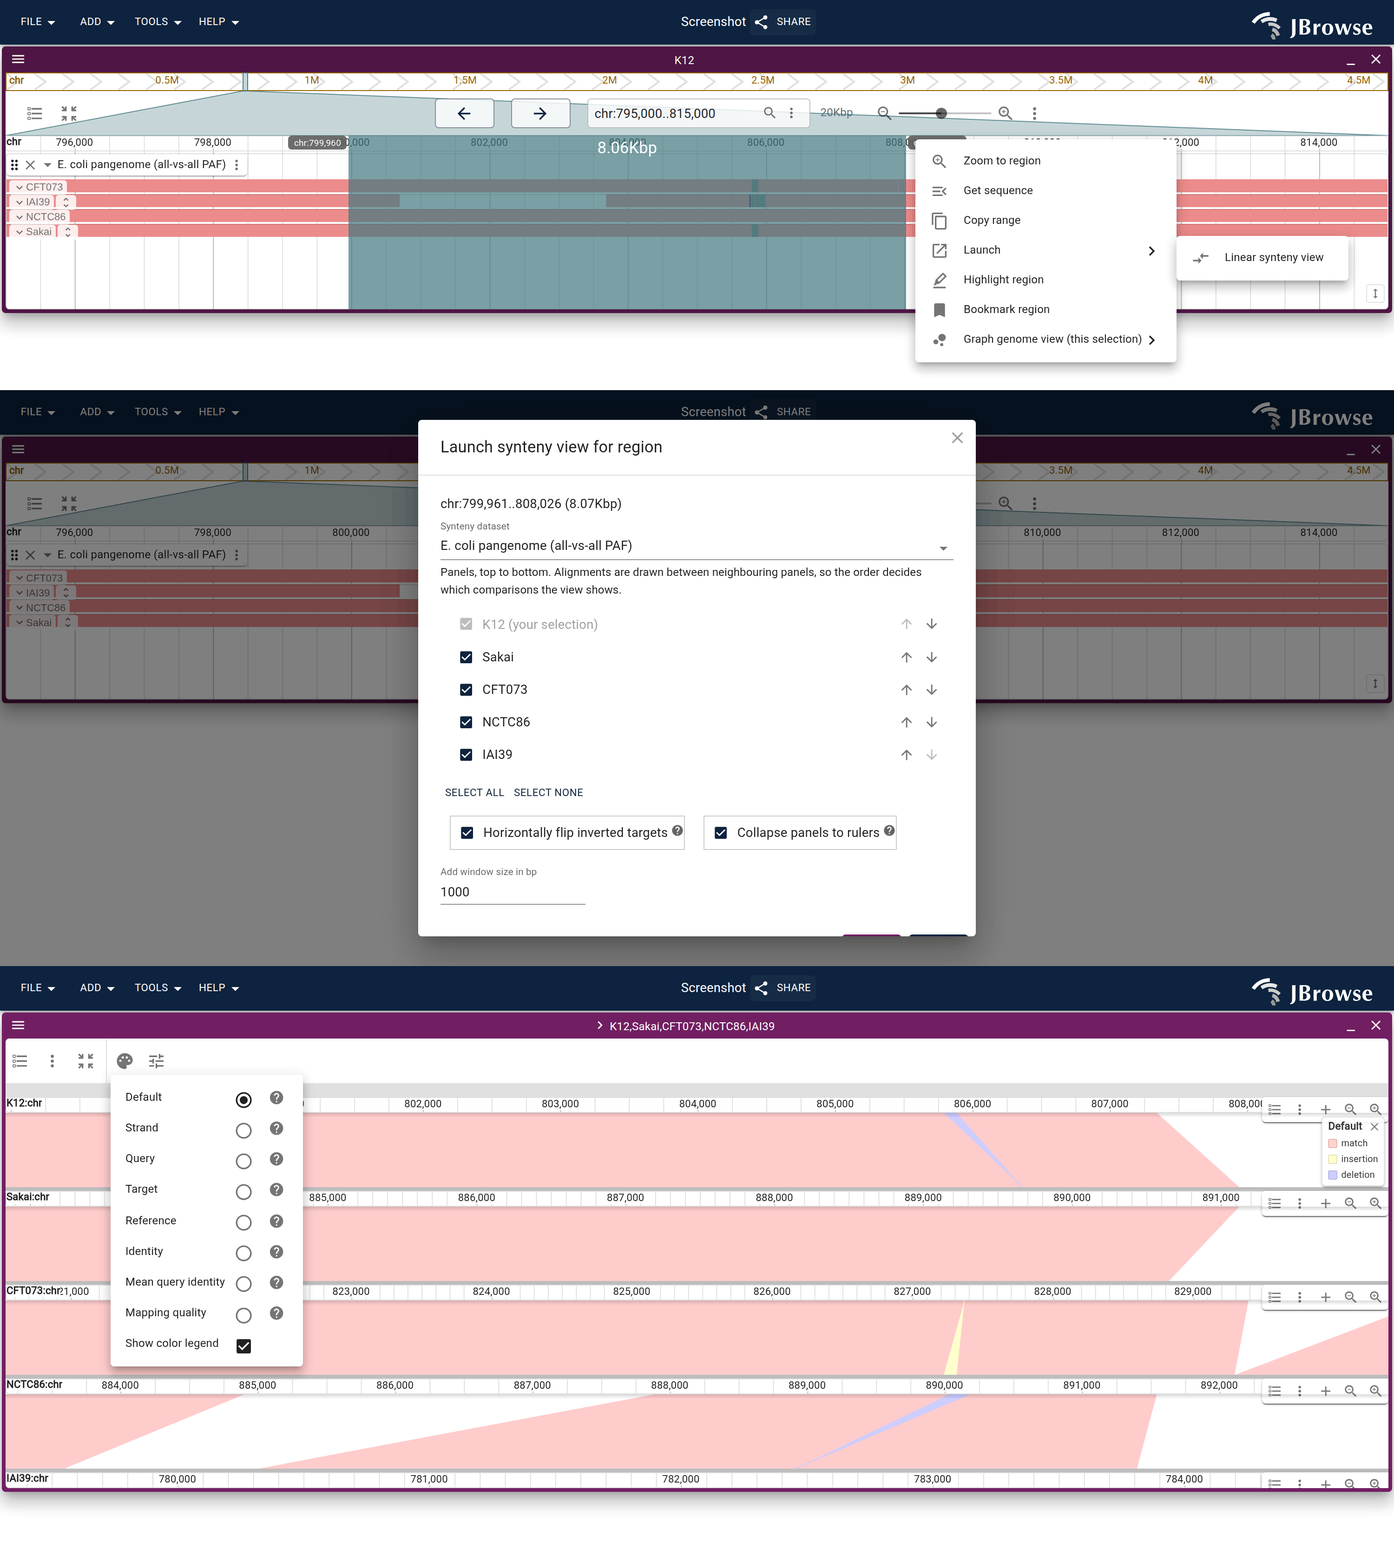
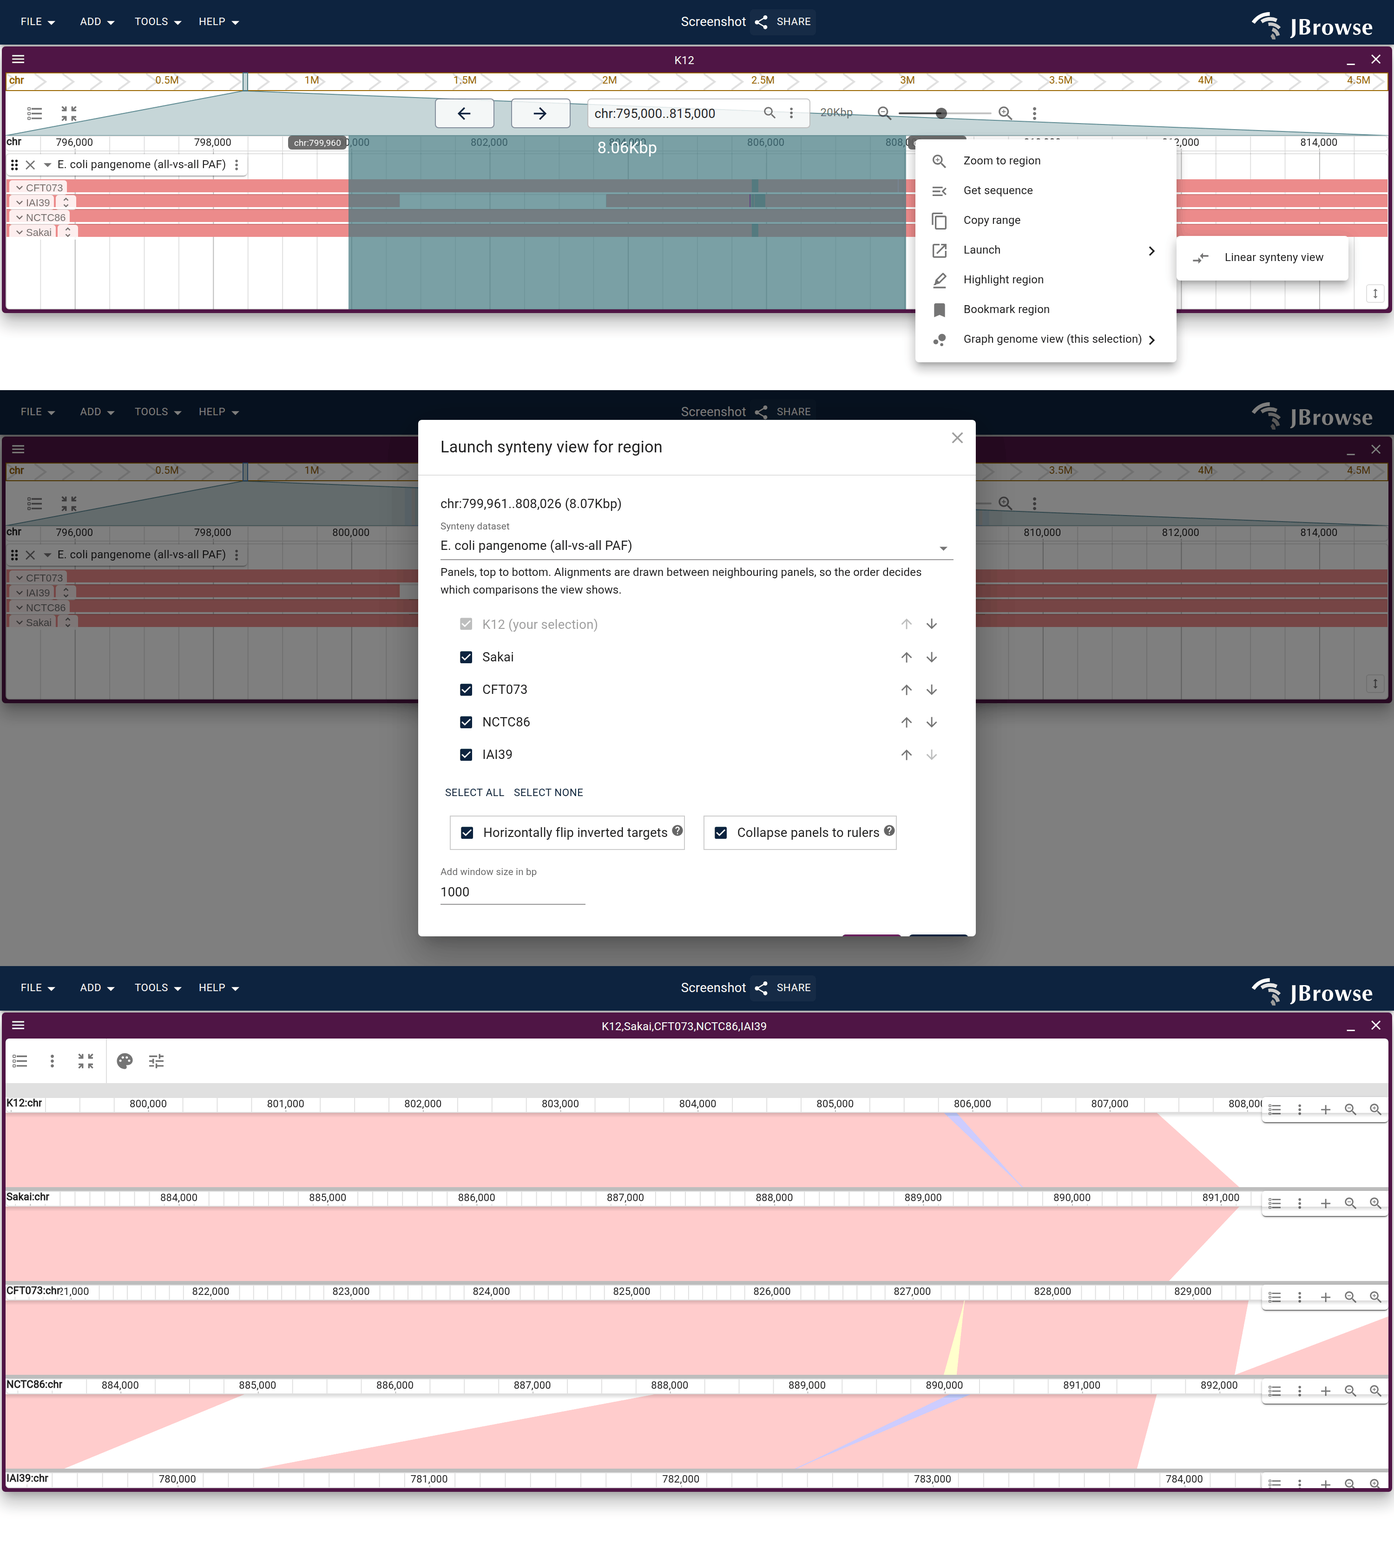
docs(website): clear three screenshot-review items
multiway_synteny/ecoli_launch_from_selection: the result frame no longer opens
the palette menu or the color legend (review). The menu is a full-height overlay
across the left half of the frame and the legend a floating box in the corner,
and between them they covered more of the five-row stack than naming the CIGAR
ops was worth. The wedges are still drawn; the prose above the figure names Show
color legend as the way to label them, and the caption no longer says the
legend is in the picture.

dog10k-slc28a3-copy-number: retired, per review, now that the CYP1A2 cohort
figure carries the same estimate over a locus where the collection lane holds a
distribution rather than one band. The section states the depth-ratio method and
points there instead of asserting the per-breed numbers the figure used to show.
dog10k_slc28a3_breed_cn / _cohort_cn stay in the config and the build script
stays under Reproduce it end to end.

ld/lct_lactase: off the gallery, which is where review found it duplicating
ld/lct_pooled_vs_panel. The card moves to that figure rather than disappearing,
since the gallery keeps one card per capability and the r2 triangle would
otherwise have none. lct_lactase stays in ld_human.md as the page's first LD
figure, where the ClinVar rs4988235 lane sets the block up.

Changed region(s): [[0.0, 0.6515, 1.0, 0.9617]]

diff --git a/website/src/lib/galleryLinks.generated.ts b/website/src/lib/galleryLinks.generated.ts
@@ -204,7 +204,6 @@ export const specSessionUrls: Record<string, string> = {
   "dog10k-fgf4-retrogene-synteny": "?config=test_data/dog10k/config.json&session=spec-%7B%22views%22%3A%5B%7B%22type%22%3A%22LinearSyntenyView%22%2C%22drawCurves%22%3Afalse%2C%22cigarMode%22%3A%22matches%22%2C%22alpha%22%3A0.45%2C%22tracks%22%3A%5B%5B%22dog10k_fgf4_retro_cfa18%22%5D%2C%5B%22dog10k_fgf4_retro_cfa12%22%5D%5D%2C%22views%22%3A%5B%7B%22assembly%22%3A%22FGF4retro-CFA18%22%2C%22loc%22%3A%22FGF4retro-CFA18%3A1-2625%22%2C%22tracks%22%3A%5B%7B%22trackId%22%3A%22dog10k_fgf4_retro_cfa18_genes%22%2C%22type%22%3A%22LinearBasicDisplay%22%2C%22height%22%3A55%7D%5D%7D%2C%7B%22assembly%22%3A%22UU_Cfam_GSD_1.0%22%2C%22loc%22%3A%22chr18%3A48%2C869%2C100-48%2C872%2C900%22%2C%22tracks%22%3A%5B%7B%22trackId%22%3A%22canFam4_ncbi_refseq%22%2C%22type%22%3A%22LinearBasicDisplay%22%2C%22height%22%3A60%7D%2C%7B%22trackId%22%3A%22dog10k_fgf4_svs%22%2C%22type%22%3A%22LinearMultiSampleVariantDisplay%22%2C%22height%22%3A690%2C%22colorBy%22%3A%22group%22%7D%5D%7D%2C%7B%22assembly%22%3A%22FGF4retro-CFA12%22%2C%22loc%22%3A%22FGF4retro-CFA12%3A2-2639%22%2C%22tracks%22%3A%5B%7B%22trackId%22%3A%22dog10k_fgf4_retro_cfa12_genes%22%2C%22type%22%3A%22LinearBasicDisplay%22%2C%22height%22%3A55%7D%5D%7D%5D%7D%5D%7D&sessionName=Screenshot",
   "dog10k-cyp1a2-nonsense": "?config=test_data/dog10k/config.json&session=spec-%7B%22views%22%3A%5B%7B%22type%22%3A%22LinearGenomeView%22%2C%22assembly%22%3A%22UU_Cfam_GSD_1.0%22%2C%22loc%22%3A%22chr30%3A38%2C261%2C590-38%2C261%2C690%22%2C%22tracks%22%3A%5B%7B%22trackId%22%3A%22UU_Cfam_GSD_1.0-ReferenceSequenceTrack%22%2C%22type%22%3A%22LinearReferenceSequenceDisplay%22%2C%22showForward%22%3Atrue%2C%22showReverse%22%3Afalse%2C%22showTranslation%22%3Atrue%2C%22height%22%3A80%7D%2C%7B%22trackId%22%3A%22canFam4_ncbi_refseq%22%2C%22type%22%3A%22LinearBasicDisplay%22%2C%22height%22%3A60%7D%2C%7B%22trackId%22%3A%22dog10k_cyp1a2_snvs_positional%22%2C%22type%22%3A%22LinearVariantDisplay%22%2C%22height%22%3A60%2C%22jexlFilters%22%3A%5B%22get(feature%2C'start')%20%3D%3D%2038261634%22%5D%7D%2C%7B%22trackId%22%3A%22dog10k_cyp1a2_snvs%22%2C%22type%22%3A%22LinearMultiSampleVariantDisplay%22%2C%22height%22%3A500%2C%22layout%22%3A%5B%7B%22name%22%3A%22GHND000001%22%2C%22label%22%3A%22German%20Hound%201%22%2C%22color%22%3A%22%230072B2%22%7D%2C%7B%22name%22%3A%22GHND000002%22%2C%22label%22%3A%22German%20Hound%202%22%2C%22color%22%3A%22%230072B2%22%7D%2C%7B%22name%22%3A%22GHND000003%22%2C%22label%22%3A%22German%20Hound%203%22%2C%22color%22%3A%22%230072B2%22%7D%2C%7B%22name%22%3A%22GHND000004%22%2C%22label%22%3A%22German%20Hound%204%22%2C%22color%22%3A%22%230072B2%22%7D%2C%7B%22name%22%3A%22GHND000005%22%2C%22label%22%3A%22German%20Hound%205%22%2C%22color%22%3A%22%230072B2%22%7D%2C%7B%22name%22%3A%22GHND000006%22%2C%22label%22%3A%22German%20Hound%206%22%2C%22color%22%3A%22%230072B2%22%7D%2C%7B%22name%22%3A%22BHSP000001%22%2C%22label%22%3A%22Bohemian%20Shepherd%201%22%2C%22color%22%3A%22%230072B2%22%7D%2C%7B%22name%22%3A%22BHSP000002%22%2C%22label%22%3A%22Bohemian%20Shepherd%202%22%2C%22color%22%3A%22%230072B2%22%7D%2C%7B%22name%22%3A%22BHSP000003%22%2C%22label%22%3A%22Bohemian%20Shepherd%203%22%2C%22color%22%3A%22%230072B2%22%7D%2C%7B%22name%22%3A%22BHSP000004%22%2C%22label%22%3A%22Bohemian%20Shepherd%204%22%2C%22color%22%3A%22%230072B2%22%7D%2C%7B%22name%22%3A%22BHSP000005%22%2C%22label%22%3A%22Bohemian%20Shepherd%205%22%2C%22color%22%3A%22%230072B2%22%7D%2C%7B%22name%22%3A%22BHSP000006%22%2C%22label%22%3A%22Bohemian%20Shepherd%206%22%2C%22color%22%3A%22%230072B2%22%7D%2C%7B%22name%22%3A%22SSHP000001%22%2C%22label%22%3A%22Shetland%20Sheepdog%201%22%2C%22color%22%3A%22%230072B2%22%7D%2C%7B%22name%22%3A%22SSHP000002%22%2C%22label%22%3A%22Shetland%20Sheepdog%202%22%2C%22color%22%3A%22%230072B2%22%7D%2C%7B%22name%22%3A%22SSHP000003%22%2C%22label%22%3A%22Shetland%20Sheepdog%203%22%2C%22color%22%3A%22%230072B2%22%7D%2C%7B%22name%22%3A%22SSHP000004%22%2C%22label%22%3A%22Shetland%20Sheepdog%204%22%2C%22color%22%3A%22%230072B2%22%7D%2C%7B%22name%22%3A%22BRTR000001%22%2C%22label%22%3A%22Black%20Russian%20Terrier%201%22%2C%22color%22%3A%22%230072B2%22%7D%2C%7B%22name%22%3A%22BRTR000002%22%2C%22label%22%3A%22Black%20Russian%20Terrier%202%22%2C%22color%22%3A%22%230072B2%22%7D%2C%7B%22name%22%3A%22BRTR000003%22%2C%22label%22%3A%22Black%20Russian%20Terrier%203%22%2C%22color%22%3A%22%230072B2%22%7D%2C%7B%22name%22%3A%22BRTR000004%22%2C%22label%22%3A%22Black%20Russian%20Terrier%204%22%2C%22color%22%3A%22%230072B2%22%7D%2C%7B%22name%22%3A%22BRTR000005%22%2C%22label%22%3A%22Black%20Russian%20Terrier%205%22%2C%22color%22%3A%22%230072B2%22%7D%2C%7B%22name%22%3A%22KEES000002%22%2C%22label%22%3A%22Keeshond%201%22%2C%22color%22%3A%22%230072B2%22%7D%2C%7B%22name%22%3A%22KEES000003%22%2C%22label%22%3A%22Keeshond%202%22%2C%22color%22%3A%22%230072B2%22%7D%2C%7B%22name%22%3A%22KEES000004%22%2C%22label%22%3A%22Keeshond%203%22%2C%22color%22%3A%22%230072B2%22%7D%2C%7B%22name%22%3A%22KEES000005%22%2C%22label%22%3A%22Keeshond%204%22%2C%22color%22%3A%22%230072B2%22%7D%2C%7B%22name%22%3A%22KEES000006%22%2C%22label%22%3A%22Keeshond%205%22%2C%22color%22%3A%22%230072B2%22%7D%2C%7B%22name%22%3A%22LABR000001%22%2C%22label%22%3A%22Labrador%20Retriever%201%22%2C%22color%22%3A%22%23999999%22%7D%2C%7B%22name%22%3A%22LABR000002%22%2C%22label%22%3A%22Labrador%20Retriever%202%22%2C%22color%22%3A%22%23999999%22%7D%2C%7B%22name%22%3A%22LABR000003%22%2C%22label%22%3A%22Labrador%20Retriever%203%22%2C%22color%22%3A%22%23999999%22%7D%2C%7B%22name%22%3A%22LABR000004%22%2C%22label%22%3A%22Labrador%20Retriever%204%22%2C%22color%22%3A%22%23999999%22%7D%2C%7B%22name%22%3A%22LABR000005%22%2C%22label%22%3A%22Labrador%20Retriever%205%22%2C%22color%22%3A%22%23999999%22%7D%2C%7B%22name%22%3A%22BOXR000001%22%2C%22label%22%3A%22Boxer%201%22%2C%22color%22%3A%22%23999999%22%7D%2C%7B%22name%22%3A%22BOXR000002%22%2C%22label%22%3A%22Boxer%202%22%2C%22color%22%3A%22%23999999%22%7D%2C%7B%22name%22%3A%22BOXR000003%22%2C%22label%22%3A%22Boxer%203%22%2C%22color%22%3A%22%23999999%22%7D%2C%7B%22name%22%3A%22BOXR000004%22%2C%22label%22%3A%22Boxer%204%22%2C%22color%22%3A%22%23999999%22%7D%2C%7B%22name%22%3A%22CLUPGR000001%22%2C%22label%22%3A%22Wolf%201%22%2C%22color%22%3A%22%23E69F00%22%7D%2C%7B%22name%22%3A%22CLUPGR000002%22%2C%22label%22%3A%22Wolf%202%22%2C%22color%22%3A%22%23E69F00%22%7D%2C%7B%22name%22%3A%22CLUPGR000003%22%2C%22label%22%3A%22Wolf%203%22%2C%22color%22%3A%22%23E69F00%22%7D%2C%7B%22name%22%3A%22CLUPGR000004%22%2C%22label%22%3A%22Wolf%204%22%2C%22color%22%3A%22%23E69F00%22%7D%5D%2C%22jexlFilters%22%3A%5B%22jexl%3Aget(feature%2C'start')%20%3D%3D%2038261634%22%5D%7D%5D%7D%5D%7D&sessionName=Screenshot",
   "dog10k-cyp1a2-cohort-copy-number": "?config=test_data/dog10k/config.json&session=spec-%7B%22views%22%3A%5B%7B%22type%22%3A%22LinearGenomeView%22%2C%22assembly%22%3A%22UU_Cfam_GSD_1.0%22%2C%22loc%22%3A%22chr30%3A38%2C210%2C000-38%2C395%2C000%22%2C%22tracks%22%3A%5B%7B%22trackId%22%3A%22canFam4_ncbi_refseq%22%2C%22type%22%3A%22LinearBasicDisplay%22%2C%22height%22%3A90%7D%2C%7B%22trackId%22%3A%22dog10k_cyp1a2_cpg%22%2C%22type%22%3A%22LinearBasicDisplay%22%2C%22height%22%3A62%7D%2C%7B%22trackId%22%3A%22dog10k_cyp1a2_breed_cn%22%2C%22type%22%3A%22LinearMultiRowFeatureDisplay%22%2C%22height%22%3A380%7D%2C%7B%22trackId%22%3A%22dog10k_cyp1a2_cohort_cn%22%2C%22type%22%3A%22LinearMultiRowFeatureDisplay%22%2C%22height%22%3A300%2C%22runClustering%22%3Atrue%7D%5D%7D%5D%7D&sessionName=Screenshot",
-  "dog10k-slc28a3-copy-number": "?config=test_data/dog10k/config.json&session=spec-%7B%22views%22%3A%5B%7B%22type%22%3A%22LinearGenomeView%22%2C%22assembly%22%3A%22UU_Cfam_GSD_1.0%22%2C%22loc%22%3A%22chr1%3A75%2C540%2C000-75%2C760%2C000%22%2C%22tracks%22%3A%5B%7B%22trackId%22%3A%22canFam4_ncbi_refseq%22%2C%22type%22%3A%22LinearBasicDisplay%22%2C%22height%22%3A90%7D%2C%7B%22trackId%22%3A%22dog10k_slc28a3_breed_cn%22%2C%22type%22%3A%22LinearMultiRowFeatureDisplay%22%2C%22height%22%3A300%7D%2C%7B%22trackId%22%3A%22dog10k_slc28a3_cohort_cn%22%2C%22type%22%3A%22LinearMultiRowFeatureDisplay%22%2C%22height%22%3A300%2C%22sortRowsBy%22%3A%7B%22refName%22%3A%22chr1%22%2C%22pos%22%3A75660000%7D%7D%5D%7D%5D%7D&sessionName=Screenshot",
   "dog10k-igf1-haplotype": "?config=test_data/dog10k/config.json&session=spec-%7B%22views%22%3A%5B%7B%22type%22%3A%22LinearGenomeView%22%2C%22assembly%22%3A%22UU_Cfam_GSD_1.0%22%2C%22loc%22%3A%22chr15%3A41%2C350%2C000-41%2C750%2C000%22%2C%22tracks%22%3A%5B%7B%22trackId%22%3A%22canFam4_ncbi_refseq%22%2C%22type%22%3A%22LinearBasicDisplay%22%2C%22height%22%3A80%7D%2C%7B%22trackId%22%3A%22dog10k_igf1_haplotype%22%2C%22type%22%3A%22LinearMultiSampleVariantMatrixDisplay%22%2C%22height%22%3A760%2C%22lineZoneHeight%22%3A34%2C%22runClustering%22%3Atrue%2C%22colorBy%22%3A%22size%22%7D%5D%7D%5D%7D&sessionName=Screenshot",
   "gallery/copynumber_clustered": "?config=test_data/config_demo.json&session=spec-%7B%22views%22%3A%5B%7B%22type%22%3A%22LinearGenomeView%22%2C%22assembly%22%3A%22hg38%22%2C%22loc%22%3A%22chr3%3A162%2C275%2C163-163%2C360%2C944%22%2C%22tracks%22%3A%5B%7B%22trackId%22%3A%22pur_copynumber_1000g%22%2C%22type%22%3A%22MultiLinearWiggleDisplay%22%2C%22height%22%3A420%2C%22defaultRendering%22%3A%22multirowdensity%22%2C%22autoscale%22%3A%22local%22%2C%22showTree%22%3Afalse%7D%5D%7D%5D%7D&sessionName=Screenshot",
   "gallery/sarscov2_polyprotein": "?config=test_data%2Fsars-cov2%2Fconfig.json&session=spec-{\"views\":[{\"assembly\":\"Wuhan-Hu-1\",\"loc\":\"NC_045512.2:266-21555\",\"type\":\"LinearGenomeView\",\"colorByCDS\":true,\"tracks\":[{\"trackId\":\"ncbi_genes_with_mature_peptides\",\"displaySnapshot\":{\"type\":\"LinearBasicDisplay\",\"subfeatureLabels\":\"below\"}}]}]}",

diff --git a/website/scripts/specs/dog10k.ts b/website/scripts/specs/dog10k.ts
@@ -1179,89 +1179,6 @@ export const dog10kSpecs: ScreenshotSpec[] = [
     viewportHeight: 1140,
   },
 
-  // The same estimate at SLC28A3, which is Fig 11 of the same paper: a
-  // duplication over a gemcitabine transporter that every Grand Basset Griffon
-  // Vendeen carries and the basset hounds segregate for. Two lanes, as above.
-  //
-  // Where CYP1A2 is carried by most of the collection, this one is rare -- under
-  // 5% of canids -- so the collection lane below is a grey field with a red band
-  // at the top of the sort rather than a ramp, and the panel is what carries the
-  // finding. That contrast is the reason both loci are drawn.
-  {
-    mode: 'url',
-    name: 'dog10k-slc28a3-copy-number',
-    url: lgvSession(DOG_CONFIG, {
-      assembly: 'UU_Cfam_GSD_1.0',
-      loc: 'chr1:75,540,000-75,760,000',
-      tracks: [
-        {
-          trackId: 'canFam4_ncbi_refseq',
-          type: 'LinearBasicDisplay',
-          height: 90,
-        },
-        {
-          // 14 rows over 300px: every animal of the three breeds, each row thick
-          // enough for its own label and for the element's edges in that animal.
-          trackId: 'dog10k_slc28a3_breed_cn',
-          type: 'LinearMultiRowFeatureDisplay',
-          height: 300,
-        },
-        {
-          trackId: 'dog10k_slc28a3_cohort_cn',
-          type: 'LinearMultiRowFeatureDisplay',
-          height: 300,
-          // Inside the duplication and clear of both its edges, so the sort
-          // separates carriers from the rest on one window rather than on where
-          // an animal's element happens to start.
-          sortRowsBy: { refName: 'chr1', pos: 75_660_000 },
-        },
-      ],
-    }),
-    readyText: 'chr1',
-    readySelector: '[data-testid="multirow-row-labels"]',
-    readyTimeout: 120000,
-    settleMs: 8000,
-    // gene track, two 300px lanes, their headers, and the copy-number key
-    viewportHeight: 965,
-    // The white stripe, named. It is one 5 kb window, chr1:75,575,000-75,580,000,
-    // and it is unpainted on purpose: build_dog10k_slc28a3_cn.sh drops any window
-    // whose median across the whole collection sits below two copies, because a
-    // window every canid reads low is measuring the reference rather than any
-    // dog (the same rule suppresses four blue stripes that would otherwise run
-    // down the collection lane at the weight of the duplication). This one is
-    // where the duplication's left breakpoint falls (ELEMENT_START 75,578,115),
-    // which is why it reads low. Review has now read the gap as a rendering
-    // glitch twice, once here and once on the CYP1A2 figure, and a caption did
-    // not stop it — so the frame says it.
-    annotations: [
-      {
-        type: 'text',
-        anchor: {
-          track: 'canFam4_ncbi_refseq',
-          locus: 'chr1:75,553,000',
-          fracY: 0.45,
-        },
-        text: 'no call: every canid reads low here',
-        fontSize: 17,
-        maxWidth: 300,
-      },
-      {
-        type: 'arrow',
-        fromAnchor: {
-          track: 'canFam4_ncbi_refseq',
-          locus: 'chr1:75,563,000',
-          fracY: 0.7,
-        },
-        anchor: {
-          track: 'dog10k_slc28a3_breed_cn',
-          locus: 'chr1:75,577,500',
-          fracY: 0,
-          dy: 40,
-        },
-      },
-    ],
-  },
-
   // The IGF1 body-size haplotype, drawn as a clustered genotype matrix over 167
   // canids: every animal of fourteen toy/small breeds, eleven giant breeds, and
   // the twelve Greek gray wolves. Built by scripts/build_dog10k_igf1.sh.

diff --git a/website/scripts/specs/synteny.ts b/website/scripts/specs/synteny.ts
@@ -299,18 +299,14 @@ function launchFromSelectionParts(): ScreenshotSpec[] {
         // prefix is the attribution, not the counter above them.
         { type: 'click', selector: '[data-testid="close_view"]' },
         { type: 'delay', ms: 3000 },
-        // Turn the color legend on. The launched view already draws the PAF's
-        // CIGAR (cigarMode defaults to 'full', and all_vs_all.paf is built with
-        // `minimap2 -c`), so the wedges inside these ribbons are insertions and
-        // deletions — but unlabeled they read as rendering noise. The legend
-        // lists only the ops actually painted, so it names them. The palette
-        // button carries no testid; its tooltip becomes the aria-label.
-        { type: 'click', selector: '[aria-label^="Color by"]' },
-        {
-          type: 'click',
-          selector: '[data-testid="cascading-menuitem-show_color_legend"]',
-        },
-        { type: 'delay', ms: 2000 },
+        // No color legend and no palette menu (reviewer). The launched view
+        // already draws the PAF's CIGAR (cigarMode defaults to 'full', and
+        // all_vs_all.paf is built with `minimap2 -c`), so the wedges inside
+        // these ribbons are the insertions and deletions; the legend that names
+        // them is one floating box in the corner, and the menu it is turned on
+        // from is a full-height overlay across the left half of the frame —
+        // together they cost more of the five-row stack than the naming is
+        // worth here. The prose above the figure names Show color legend.
       ],
     },
   ]

diff --git a/website/src/lib/gallery.ts b/website/src/lib/gallery.ts
@@ -310,10 +310,10 @@ export const gallerySections: readonly GallerySection[] = [
       },
       {
         label: 'LD triangle at the lactase locus',
-        spec: 'ld/lct_lactase',
+        spec: 'ld/lct_pooled_vs_panel',
         guide: 'tutorials/ld_human',
         description:
-          'Haplotypic r² from phased 1000 Genomes genotypes, with a red block of high linkage in the middle and lower values to either side.',
+          'Haplotypic r² computed in the browser from phased 1000 Genomes genotypes, the same window twice: every panel pooled breaks the lactase block into a mosaic, one panel resolves it into a single block.',
       },
       {
         label: 'BXD QTL with haplotype painting',

diff --git a/website/docs/tutorials/dog10k_svs.md b/website/docs/tutorials/dog10k_svs.md
@@ -226,17 +226,15 @@ _SLC28A3_, the transporter that moves gemcitabine into cells, carried by every
 Grand Basset Griffon Vendéen it sequenced. Its copy-number estimates were never
 released, but the SNV callset carries a per-sample `DP` at every site, and the
 ratio of a dog's depth over the element to its depth over the flanks is a copy
-number for all 1,987 canids. [The CYP1A2 tutorial](/docs/tutorials/dog10k_lof)
-builds that estimate and validates it against read depth.
+number for all 1,987 canids.
 
-<Figure caption="Copy number over SLC28A3 from callset depth, each 5 kb window colored by its rounded call, grey being two copies. Above, every Grand Basset Griffon Vendéen, Basset Hound and German Shepherd in the collection. Below, all 1,987 canids sorted by copy number over the duplication. Every GBGV carries it, three of the seven Basset Hounds carry it, and the collection lane is grey apart from the band at the top. The unpainted stripe is one window that every canid in the collection reads below two copies, which measures the reference rather than any dog, so the build script paints nothing there." src="/img/dog10k-slc28a3-copy-number.png" />
-
-The element runs wider than the gene, and its edges land where the SV callset
-puts a duplication. Under 5% of the collection carry it, which is why the lower
-lane is a grey field: at this locus the named panel is the finding and the
-distribution is the context. The white column inside it is a window the whole
-collection reads below two copies, which is a property of the reference rather
-than of any dog, so it is dropped instead of painted.
+[The CYP1A2 tutorial](/docs/tutorials/dog10k_lof) builds that estimate,
+validates it against read depth, and carries the figure it makes: a named panel
+of animals above the whole collection, at a locus where enough of the collection
+carries the duplication for the lower lane to hold a distribution rather than a
+single band. `dog10k_slc28a3_breed_cn` and `dog10k_slc28a3_cohort_cn` are in
+this tutorial's config, so the same pair of lanes opens here from the track
+selector.
 
 ## A variant that is not there, at FGF4
 

diff --git a/website/docs/tutorials/allvsall_synteny.md b/website/docs/tutorials/allvsall_synteny.md
@@ -437,7 +437,7 @@ falls, and the palette button's **Show color legend** names the colors. **CIGAR
 display mode** in the view menu switches between colored indels, transparent
 ones, and none.
 
-<Figure caption="Rubberband-select an 8 kb window of the shared backbone, then Launch → Linear synteny view. The dialog lists the four strains that align there, all checked, in the order their rows will stack, and the launched view is those five rows with a band between each neighbouring pair, each row collapsed to its ruler until you add tracks to it. At this zoom the CIGAR shows: the wedges inside the ribbons are the insertions and deletions named in the legend." src="/img/multiway_synteny/ecoli_launch_from_selection.png" links="Selection=multiway_synteny/ecoli_launch_selection,Dialog=multiway_synteny/ecoli_launch_dialog,Result=multiway_synteny/ecoli_launch_result" />
+<Figure caption="Rubberband-select an 8 kb window of the shared backbone, then Launch → Linear synteny view. The dialog lists the four strains that align there, all checked, in the order their rows will stack, and the launched view is those five rows with a band between each neighbouring pair, each row collapsed to its ruler until you add tracks to it. At this zoom the CIGAR shows: the wedges inside the ribbons are the insertions and deletions." src="/img/multiway_synteny/ecoli_launch_from_selection.png" links="Selection=multiway_synteny/ecoli_launch_selection,Dialog=multiway_synteny/ecoli_launch_dialog,Result=multiway_synteny/ecoli_launch_result" />
 
 ## Reproduce it end to end
 
